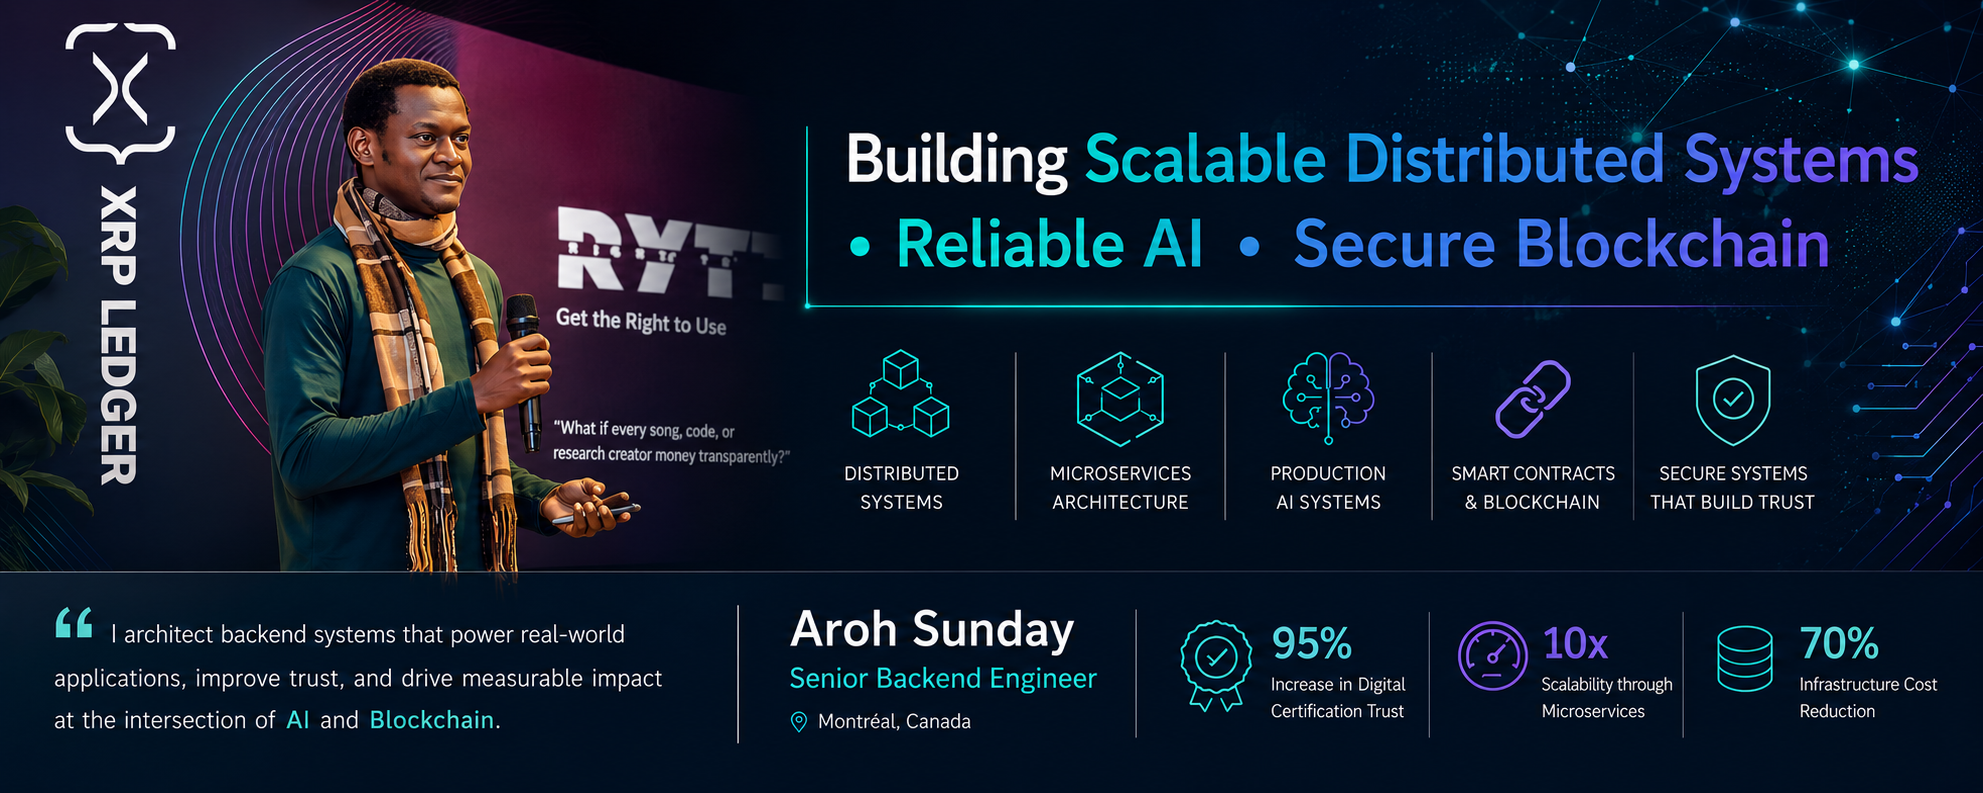
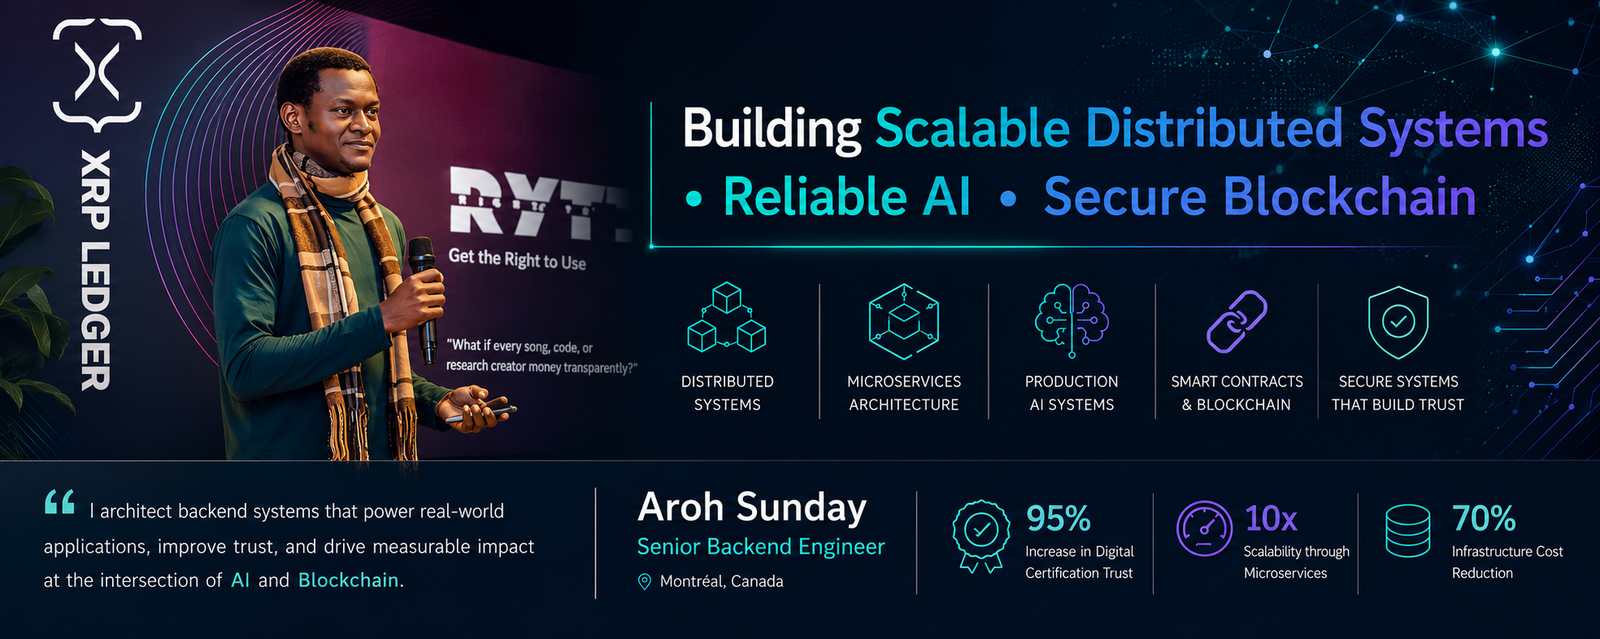
add seo

diff --git a/index.html b/index.html
@@ -3,14 +3,114 @@
 <head>
   <meta charset="UTF-8">
   <meta name="viewport" content="width=device-width, initial-scale=1.0">
-  <meta name="description" content="Aroh Sunday — Senior Backend Engineer architecting resilient distributed systems, production AI, and blockchain trust layers.">
+  <meta name="description" content="Aroh Sunday — Backend engineer in Montreal. Production AI, distributed systems, smart contracts. GameVoc, XRPL Commons, Polytechnique Montréal.">
   <meta name="author" content="Aroh Sunday">
-  <title>Aroh Sunday | Senior Backend Engineer</title>
+  <meta name="robots" content="index, follow">
+  <meta name="keywords" content="Aroh Sunday, backend engineer Montreal, distributed systems, production AI, blockchain, smart contracts, XRPL Commons, GameVoc, Polytechnique Montréal, melitus">
+  <title>Aroh Sunday | Backend Engineer · AI Systems · Blockchain</title>
+  <link rel="canonical" href="https://melitus.github.io/sunday.aroh/">
+  <link rel="me" href="https://github.com/melitus">
+  <link rel="me" href="https://www.linkedin.com/in/arohsunday">
+  <link rel="me" href="https://scholar.google.com/citations?user=jzp04ekAAAAJ">
+
+  <!-- Open Graph -->
+  <meta property="og:type" content="profile">
+  <meta property="og:title" content="Aroh Sunday | Backend Engineer · AI Systems · Blockchain">
+  <meta property="og:description" content="Aroh Sunday — Backend engineer in Montreal. Production AI, distributed systems, smart contracts. GameVoc, XRPL Commons, Polytechnique Montréal.">
+  <meta property="og:url" content="https://melitus.github.io/sunday.aroh/">
+  <meta property="og:site_name" content="Aroh Sunday">
+  <meta property="og:locale" content="en_CA">
+  <meta property="og:image" content="https://melitus.github.io/sunday.aroh/assets/images/profile.jpg">
+  <meta property="profile:first_name" content="Aroh">
+  <meta property="profile:last_name" content="Sunday">
+
+  <!-- Twitter Card -->
+  <meta name="twitter:card" content="summary_large_image">
+  <meta name="twitter:title" content="Aroh Sunday | Backend Engineer · AI Systems · Blockchain">
+  <meta name="twitter:description" content="Backend engineer in Montreal. Production AI, distributed systems, smart contracts.">
+  <meta name="twitter:image" content="https://melitus.github.io/sunday.aroh/assets/images/profile.jpg">
+
+  <script type="application/ld+json">
+  {
+    "@context": "https://schema.org",
+    "@graph": [
+      {
+        "@type": "Person",
+        "@id": "https://melitus.github.io/sunday.aroh/#person",
+        "name": "Aroh Sunday",
+        "givenName": "Aroh",
+        "familyName": "Sunday",
+        "jobTitle": "Senior Backend Engineer",
+        "description": "Backend engineer specializing in production AI, distributed systems, and blockchain trust layers.",
+        "url": "https://melitus.github.io/sunday.aroh/",
+        "image": "https://melitus.github.io/sunday.aroh/assets/images/profile.jpg",
+        "email": "asmelitus@gmail.com",
+        "address": {
+          "@type": "PostalAddress",
+          "addressLocality": "Montreal",
+          "addressRegion": "QC",
+          "addressCountry": "CA"
+        },
+        "alumniOf": [
+          {
+            "@type": "CollegeOrUniversity",
+            "name": "Polytechnique Montréal"
+          },
+          {
+            "@type": "CollegeOrUniversity",
+            "name": "University of Nigeria, Nsukka"
+          }
+        ],
+        "worksFor": {
+          "@type": "Organization",
+          "name": "BusPas Inc."
+        },
+        "knowsAbout": [
+          "Distributed Systems",
+          "Production AI",
+          "Large Language Models",
+          "Smart Contracts",
+          "Blockchain",
+          "Microservices",
+          "XRPL",
+          "DeFi"
+        ],
+        "sameAs": [
+          "https://github.com/melitus",
+          "https://www.linkedin.com/in/arohsunday",
+          "https://scholar.google.com/citations?user=jzp04ekAAAAJ&hl=en",
+          "https://gamevoc.africa/",
+          "https://issuu.com/xrplcommons/docs/xrpl_community_mag_5_-_defi_expectations"
+        ]
+      },
+      {
+        "@type": "WebSite",
+        "@id": "https://melitus.github.io/sunday.aroh/#website",
+        "url": "https://melitus.github.io/sunday.aroh/",
+        "name": "Aroh Sunday — Personal Website",
+        "description": "Portfolio of Aroh Sunday, backend engineer in Montreal.",
+        "publisher": { "@id": "https://melitus.github.io/sunday.aroh/#person" },
+        "inLanguage": "en-CA"
+      },
+      {
+        "@type": "ProfilePage",
+        "@id": "https://melitus.github.io/sunday.aroh/#webpage",
+        "url": "https://melitus.github.io/sunday.aroh/",
+        "name": "Aroh Sunday | Backend Engineer · AI Systems · Blockchain",
+        "isPartOf": { "@id": "https://melitus.github.io/sunday.aroh/#website" },
+        "about": { "@id": "https://melitus.github.io/sunday.aroh/#person" },
+        "description": "Aroh Sunday — Backend engineer in Montreal. Production AI, distributed systems, smart contracts.",
+        "inLanguage": "en-CA"
+      }
+    ]
+  }
+  </script>
+
   <link rel="preconnect" href="https://fonts.googleapis.com">
   <link rel="preconnect" href="https://fonts.gstatic.com" crossorigin>
   <link href="https://fonts.googleapis.com/css2?family=Inter:wght@400;500;600;700;800&display=swap" rel="stylesheet">
   <link rel="stylesheet" href="css/styles.css">
-  <link rel="icon" href="assets/images/profile.jpg" type="image/jpeg">
+  <link rel="icon" href="assets/images/favicon.jpg" type="image/jpeg">
 </head>
 <body>
   <nav class="navbar" id="navbar">
@@ -35,7 +135,7 @@
         <source media="(max-width: 768px)" srcset="assets/images/background.png">
         <img
           src="assets/images/background.png"
-          alt="Aroh Sunday — Building Scalable Distributed Systems, Reliable AI, and Secure Blockchain"
+          alt="Aroh Sunday — Backend Engineer in Montreal, building scalable distributed systems, production AI, and secure blockchain"
           class="hero-banner-img"
           width="1983"
           height="793"
@@ -48,7 +148,10 @@
     <div class="hero-body">
       <div class="container hero-content">
         <div class="profile-wrapper">
-          <img src="assets/images/profile.jpg" alt="Aroh Sunday" class="profile-photo" width="160" height="160">
+          <picture>
+            <source srcset="assets/images/profile.webp" type="image/webp">
+            <img src="assets/images/profile.jpg" alt="Aroh Sunday — Backend Engineer, Montreal, Canada" class="profile-photo" width="160" height="160">
+          </picture>
         </div>
         <h1>Aroh Sunday</h1>
         <p class="headline">I build backend systems that scale, AI that ships, and protocols that earn trust</p>
@@ -72,6 +175,9 @@
           <span class="section-label">My Intent</span>
           <h2>Engineering systems that scale, AI that ships, and trust that lasts</h2>
         </div>
+        <p class="intent-summary about-intro">
+          <strong>Aroh Sunday</strong> is a senior backend engineer based in Montreal, Quebec, Canada — known for work on production AI pipelines, distributed systems, and blockchain trust protocols. Projects include <a href="https://gamevoc.africa/">GameVoc Africa</a>, <a href="https://www.cribmd.com/">CribMD</a>, <a href="https://www.greenant.ai/">GreenAnt</a>, and contributions to the <a href="https://issuu.com/xrplcommons/docs/xrpl_community_mag_5_-_defi_expectations?fr=xKAE9_zU1NQ">XRPL Commons Magazine</a>. Research affiliations include Polytechnique Montréal (SE4AI CREATE) and BusPas Inc.
+        </p>
         <p class="intent-summary">
           Senior Software Engineer specializing in scalable, production-ready systems. I architect backend infrastructure that makes AI reliable and blockchain trustworthy — scaling microservices, distributed systems, and intelligent pipelines that drive real impact. Over 9+ years, I've built production systems across fintech, healthcare, logistics, and climate tech.
         </p>
@@ -163,7 +269,7 @@
             </div>
           </a>
           <a href="https://issuu.com/xrplcommons/docs/xrpl_community_mag_5_-_defi_expectations?fr=xKAE9_zU1NQ" target="_blank" rel="noopener noreferrer" class="magazine-card">
-            <img src="assets/images/CM5_CONTRIBUTOR_VISUAL_1_TWITTER.png" alt="XRPL Commons Magazine Issue 5 — DeFi Expectations contributor" class="magazine-visual">
+            <img src="assets/images/CM5_CONTRIBUTOR_VISUAL_1_TWITTER.png" alt="Aroh Sunday featured in XRPL Commons Magazine Issue 5 — DeFi Expectations" class="magazine-visual" loading="lazy" width="280" height="220">
             <div class="magazine-info">
               <span class="project-badge">XRPL Commons</span>
               <h3>Community Magazine — Issue 5</h3>

diff --git a/css/styles.css b/css/styles.css
@@ -327,6 +327,22 @@ img {
   line-height: 1.75;
 }
 
+.about-intro {
+  margin-bottom: 1.25rem;
+}
+
+.about-intro a {
+  color: var(--accent-primary);
+  font-weight: 500;
+  text-decoration: underline;
+  text-underline-offset: 2px;
+  transition: var(--transition);
+}
+
+.about-intro a:hover {
+  color: var(--accent-secondary);
+}
+
 .intent-grid {
   display: grid;
   grid-template-columns: repeat(auto-fit, minmax(240px, 1fr));

diff --git a/googled072ee11b7be5b9f.html b/googled072ee11b7be5b9f.html
@@ -1,0 +1,1 @@
+google-site-verification: googled072ee11b7be5b9f.html

diff --git a/README.md b/README.md
@@ -2,6 +2,8 @@
 
 Intent-driven personal portfolio site for [Aroh Sunday](https://github.com/melitus), hosted on GitHub Pages.
 
+**Live site:** https://melitus.github.io/sunday.aroh/
+
 ## Deploy to GitHub Pages
 
 1. Push this repository to GitHub (`melitus/sunday.aroh`).
@@ -9,6 +11,36 @@ Intent-driven personal portfolio site for [Aroh Sunday](https://github.com/melit
 3. Under **Build and deployment**, set **Source** to **Deploy from a branch**.
 4. Select branch **`main`** and folder **`/ (root)`**.
 5. Save — your site will be live at `https://melitus.github.io/sunday.aroh/` within a few minutes.
+6. Enable **Enforce HTTPS** under Pages settings.
+
+## SEO & Google Search Console
+
+After deploying, register the site with Google:
+
+1. Go to [Google Search Console](https://search.google.com/search-console).
+2. Add property: `https://melitus.github.io/sunday.aroh/`
+3. Verify ownership (HTML file upload or meta tag method).
+4. Submit sitemap: `https://melitus.github.io/sunday.aroh/sitemap.xml`
+5. Use **URL Inspection** → **Request indexing** on the homepage.
+
+**Also link this site from your profiles** (critical for name searches):
+
+- [LinkedIn](https://www.linkedin.com/in/arohsunday) — Website field in Contact & About
+- [GitHub](https://github.com/melitus) — Profile URL / bio
+- [Google Scholar](https://scholar.google.com/citations?user=jzp04ekAAAAJ) — Homepage if available
+
+**Optional — custom domain:** A domain like `arohsunday.com` improves ranking for name searches. Add a `CNAME` file in the repo root and configure DNS in GitHub Pages settings.
+
+### SEO files included
+
+| File | Purpose |
+|------|---------|
+| `robots.txt` | Allows crawlers, points to sitemap |
+| `sitemap.xml` | Submitted to Google Search Console |
+| JSON-LD in `index.html` | Person + WebSite + ProfilePage schema |
+| Open Graph / Twitter tags | Rich previews when shared on social |
+| `rel="canonical"` | Prevents duplicate URL issues |
+| `rel="me"` | Links site to GitHub, LinkedIn, Scholar |
 
 ## Local preview
 
@@ -23,14 +55,18 @@ Then visit `http://localhost:8080`.
 ## Structure
 
 ```
-├── index.html              # Main page
-├── css/styles.css          # Styles (GameVoc-inspired palette)
-├── js/main.js              # Scroll animations & mobile nav
+├── index.html              # Main page (SEO meta + JSON-LD)
+├── robots.txt              # Crawler instructions
+├── sitemap.xml             # URL map for search engines
+├── css/styles.css
+├── js/main.js
 ├── assets/
 │   └── images/
-│       ├── profile.jpg     # Profile photo
+│       ├── profile.jpg     # Optimized profile photo
+│       ├── profile.webp    # WebP variant
+│       ├── favicon.jpg     # Favicon
 │       ├── background.png  # Hero banner
-│       └── CM5_CONTRIBUTOR_VISUAL_1_TWITTER.png  # XRPL Magazine visual
+│       └── CM5_CONTRIBUTOR_VISUAL_1_TWITTER.png
 └── data/
-    └── profile.json        # Source profile data
+    └── profile.json
 ```
